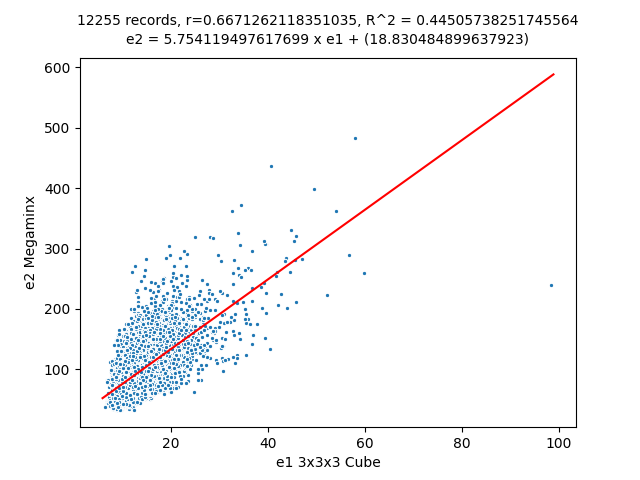
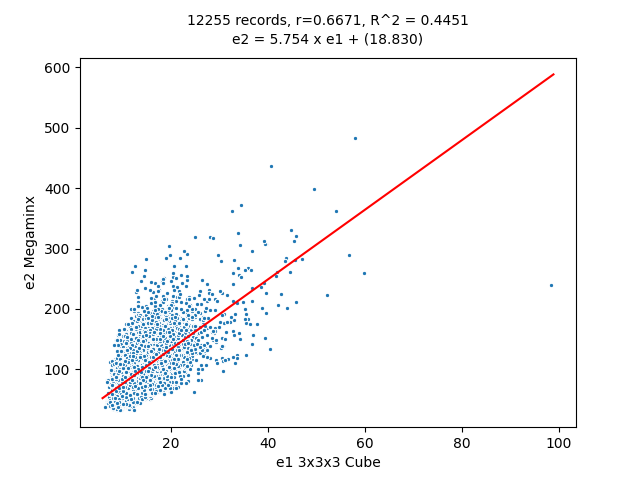
Round the numbers in plots to make them clearer

Changed region(s): [[0.125, 0.0312, 0.9062, 0.0938]]

diff --git a/plot_events.py b/plot_events.py
@@ -38,7 +38,7 @@ def get_regression(x, y):
 
     slope = reg.coef_[0]
     intercept = reg.intercept_
-    msg = f'e2 = {slope} x e1 + ({intercept})'
+    msg = f'e2 = {slope:.3f} x e1 + ({intercept:.3f})'
 
     return (pred_x, pred_y), score, msg
 
@@ -66,7 +66,7 @@ def plot_correlation(event_x, event_y):
                          s=10)
     sns.lineplot(predictions[0], predictions[1], color='r', ax=ax)
 
-    ax.text(s=f'{len(time_points)} records, r={corr}, R^2 = {score}',
+    ax.text(s=f'{len(time_points)} records, r={corr:.4f}, R^2 = {score:.4f}',
             x=0.5, y=1.08, ha='center', va='bottom', transform=ax.transAxes)
     ax.text(s=msg,
             x=0.5, y=1.03, ha='center', va='bottom', transform=ax.transAxes)
